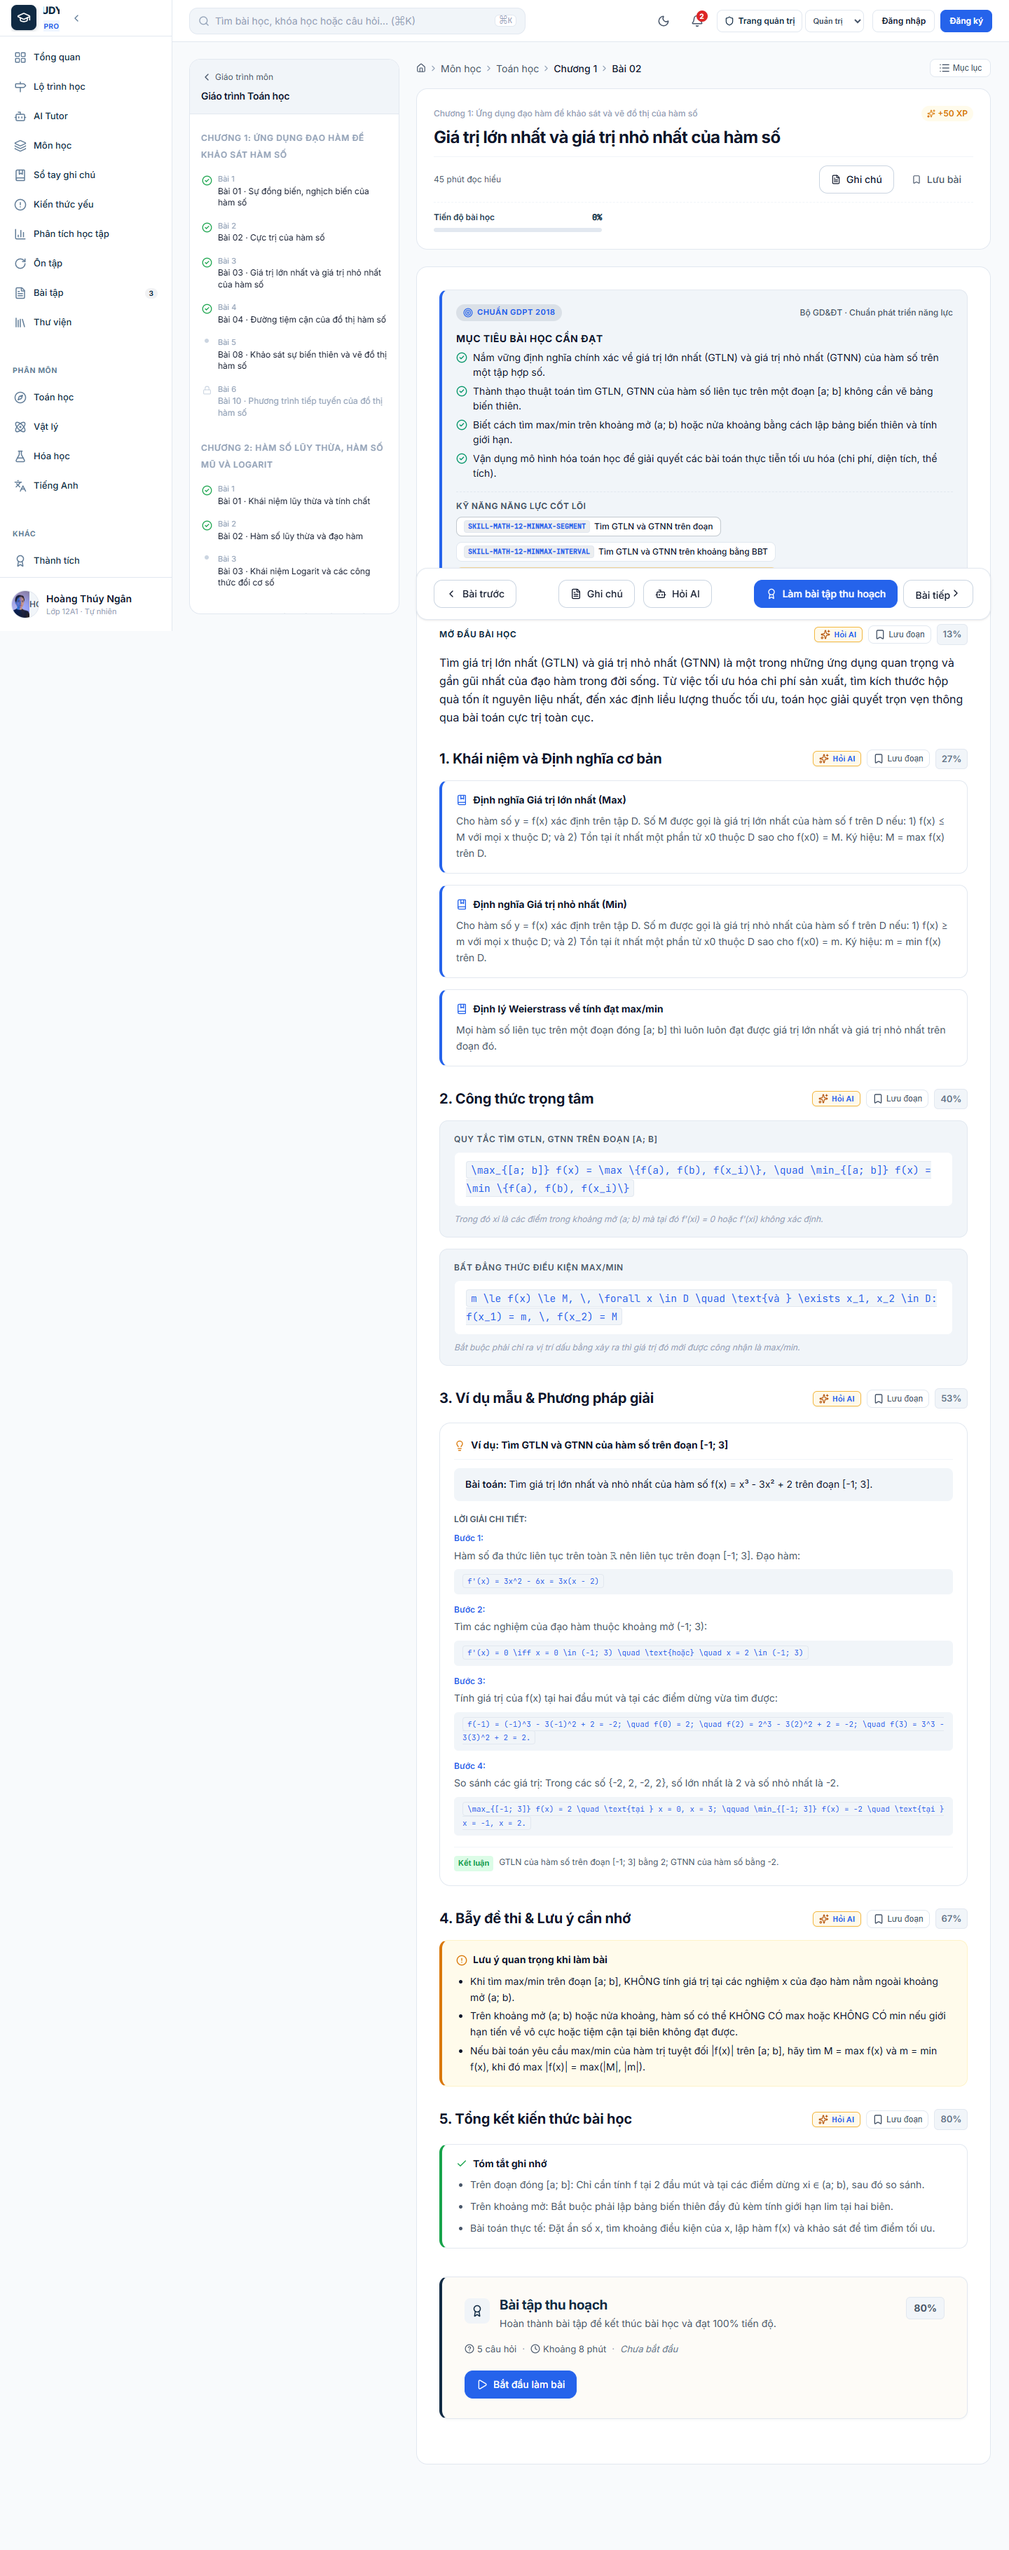
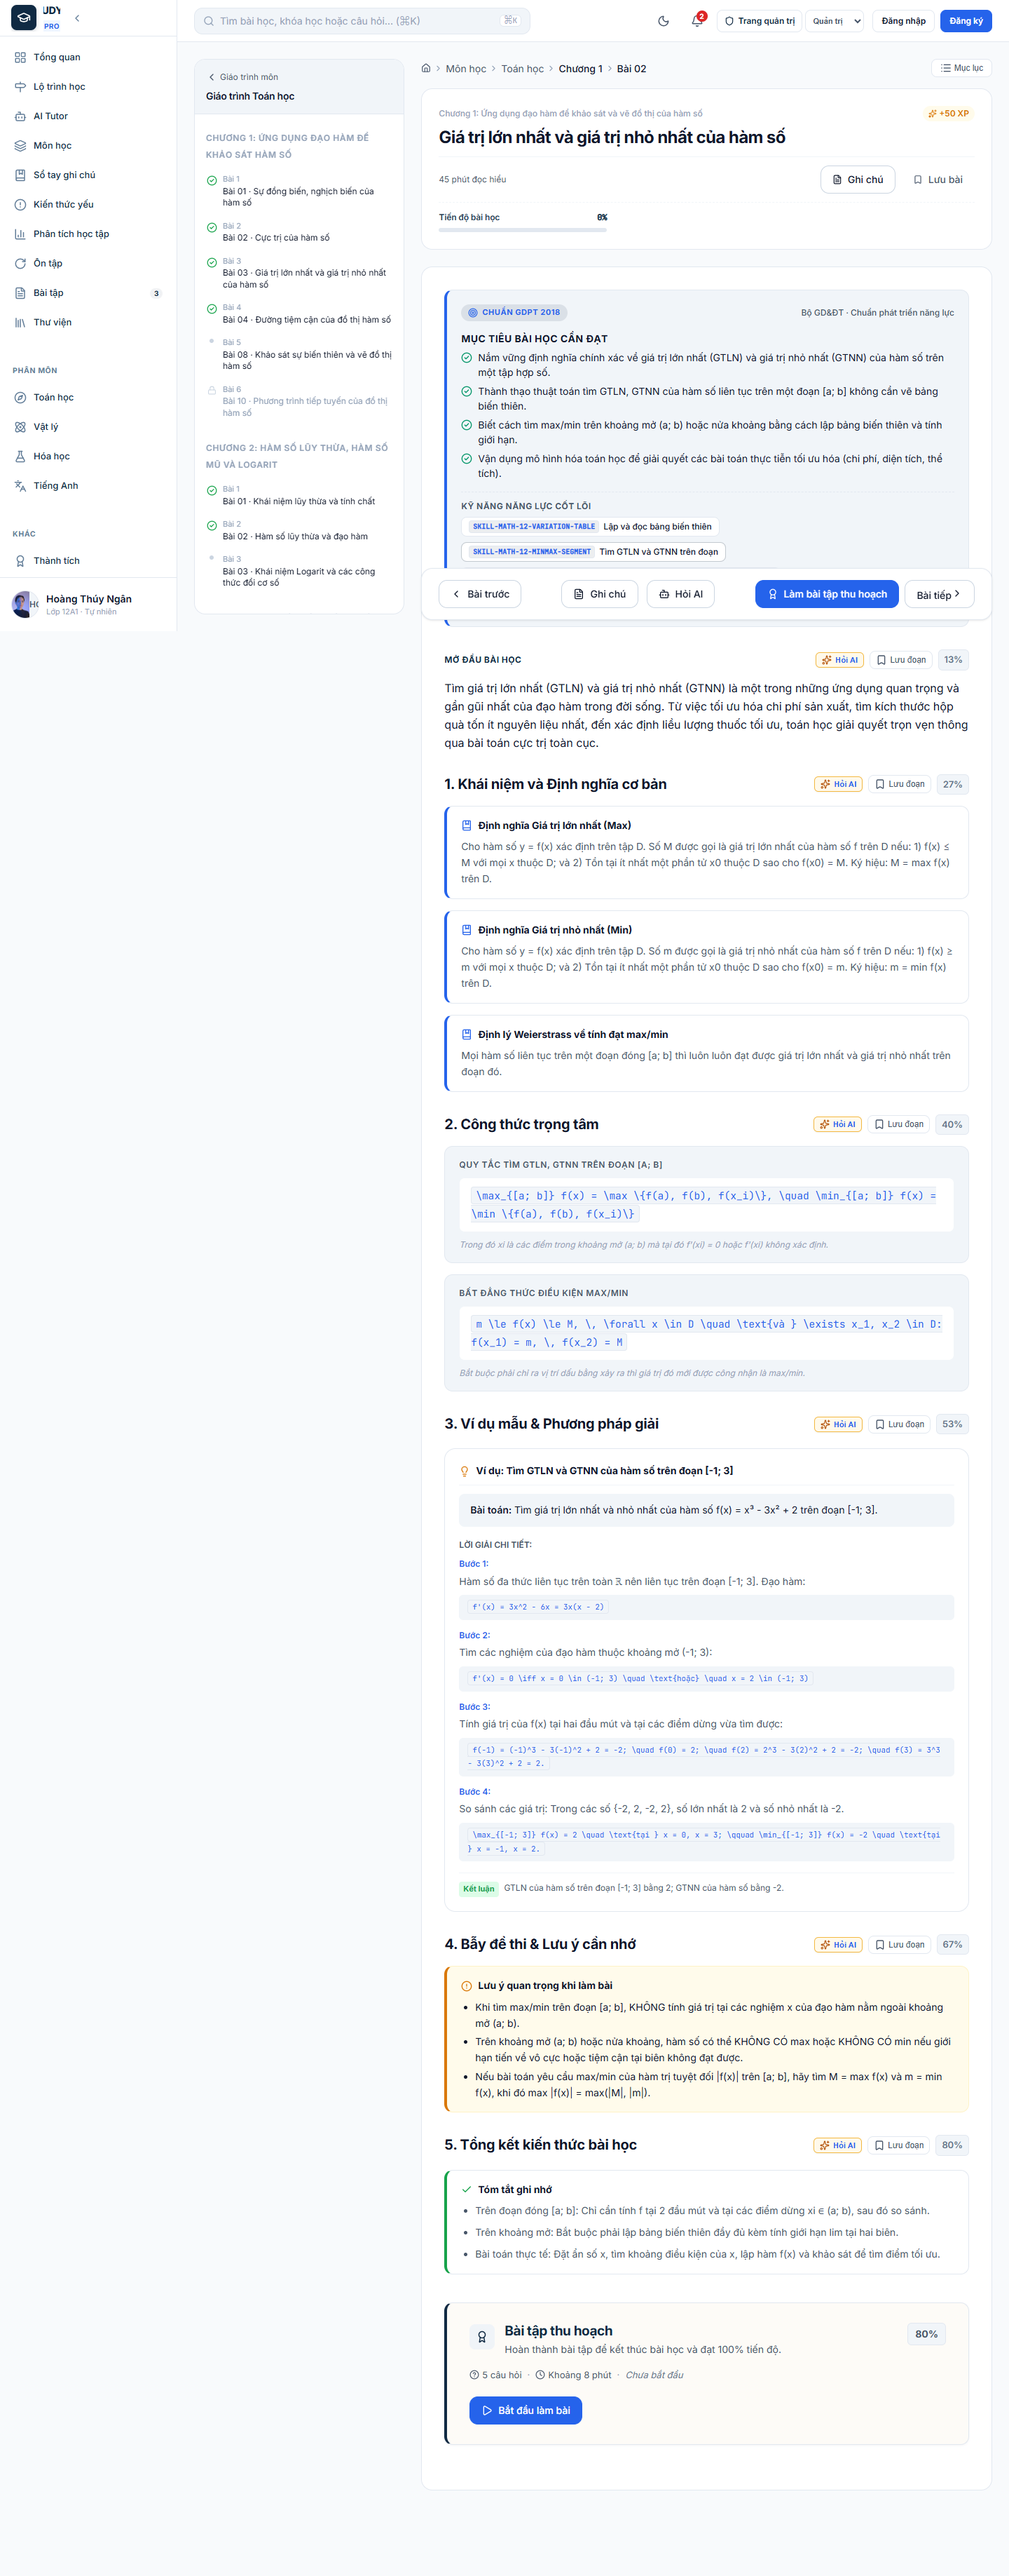
feat(curriculum): standardize GDPT 2018 6 chapters math 12 and skill clusters

diff --git a/frontend/src/data/curriculum.data.ts b/frontend/src/data/curriculum.data.ts
@@ -7,16 +7,53 @@
 import type { CurriculumSubject, Skill } from '@/types/curriculum'
 
 export const MASTER_SKILLS: Skill[] = [
-  // Math 12 - Chapter 1 Skills
+  // Math 12 - Chapter 1 Core Standardized Skill Clusters (GDPT 2018)
+  {
+    id: 'sk-math-12-deriv-sign',
+    code: 'SKILL-MATH-12-DERIV-SIGN',
+    name: 'Xét dấu đạo hàm',
+    subjectId: 'math',
+    grade: '12',
+    description: 'Tính đạo hàm và lập bảng xét dấu đạo hàm cấp một để xác định chiều biến thiên của hàm số.',
+    category: 'conceptual',
+  },
   {
     id: 'sk-math-12-mono',
     code: 'SKILL-MATH-12-MONOTONICITY',
-    name: 'Xét dấu đạo hàm xác định khoảng đơn điệu',
+    name: 'Xét tính đơn điệu',
     subjectId: 'math',
     grade: '12',
     description: 'Vận dụng định lý đạo hàm cấp một để kết luận khoảng đồng biến, nghịch biến của hàm số.',
     category: 'conceptual',
   },
+  {
+    id: 'sk-math-12-extr',
+    code: 'SKILL-MATH-12-EXTREMUM',
+    name: 'Xác định cực trị',
+    subjectId: 'math',
+    grade: '12',
+    description: 'Tìm điểm cực đại, cực tiểu và tính giá trị cực trị dựa vào quy tắc 1 hoặc quy tắc 2.',
+    category: 'procedural',
+  },
+  {
+    id: 'sk-math-12-var-table',
+    code: 'SKILL-MATH-12-VARIATION-TABLE',
+    name: 'Lập và đọc bảng biến thiên',
+    subjectId: 'math',
+    grade: '12',
+    description: 'Lập bảng biến thiên hoàn chỉnh (tập xác định, dấu đạo hàm, chiều mũi tên) và đọc thông tin cực trị, tiệm cận.',
+    category: 'procedural',
+  },
+  {
+    id: 'sk-math-12-graph-sketch',
+    code: 'SKILL-MATH-12-GRAPH-SKETCHING',
+    name: 'Khảo sát và vẽ đồ thị hàm số',
+    subjectId: 'math',
+    grade: '12',
+    description: 'Thực hiện quy trình 3 bước khảo sát sự biến thiên và vẽ đồ thị các hàm số đa thức và phân thức hữu tỉ.',
+    category: 'application',
+  },
+  // Detailed sub-skills
   {
     id: 'sk-math-12-extr-1',
     code: 'SKILL-MATH-12-EXTREMUM-1',
@@ -113,10 +150,12 @@ export const MASTER_CURRICULUM_SUBJECTS: CurriculumSubject[] = [
     description: 'Chương trình Giải tích và Hình học không gian chuẩn GDPT 2018, bám sát cấu trúc đề thi THPT Quốc gia.',
     availability: 'available',
     plannedTopics: [
-      'Ứng dụng đạo hàm để khảo sát và vẽ đồ thị của hàm số',
-      'Tọa độ vectơ trong không gian Oxyz',
-      'Các số đặc trưng đo mức độ phân tán của mẫu số liệu ghép nhóm',
-      'Nguyên hàm, tích phân và ứng dụng thực tiễn',
+      'Ứng dụng đạo hàm để khảo sát và vẽ đồ thị hàm số',
+      'Vectơ và hệ trục tọa độ trong không gian',
+      'Các số đặc trưng đo mức độ phân tán cho mẫu số liệu ghép nhóm',
+      'Nguyên hàm. Tích phân.',
+      'Phương pháp tọa độ trong không gian',
+      'Xác suất có điều kiện',
     ],
     metadata: {
       curriculumVersion: 'GDPT_2018',
@@ -167,10 +206,28 @@ export const MASTER_CURRICULUM_SUBJECTS: CurriculumSubject[] = [
                 ],
                 skills: [
                   {
+                    skillId: 'sk-math-12-deriv-sign',
+                    skillCode: 'SKILL-MATH-12-DERIV-SIGN',
+                    skillName: 'Xét dấu đạo hàm',
+                    level: 'core',
+                  },
+                  {
                     skillId: 'sk-math-12-mono',
                     skillCode: 'SKILL-MATH-12-MONOTONICITY',
-                    skillName: 'Xét dấu đạo hàm xác định khoảng đơn điệu',
+                    skillName: 'Xét tính đơn điệu',
                     level: 'core',
+                  },
+                  {
+                    skillId: 'sk-math-12-extr',
+                    skillCode: 'SKILL-MATH-12-EXTREMUM',
+                    skillName: 'Xác định cực trị',
+                    level: 'core',
+                  },
+                  {
+                    skillId: 'sk-math-12-var-table',
+                    skillCode: 'SKILL-MATH-12-VARIATION-TABLE',
+                    skillName: 'Lập và đọc bảng biến thiên',
+                    level: 'supporting',
                   },
                   {
                     skillId: 'sk-math-12-extr-1',
@@ -328,6 +385,12 @@ export const MASTER_CURRICULUM_SUBJECTS: CurriculumSubject[] = [
                 ],
                 skills: [
                   {
+                    skillId: 'sk-math-12-var-table',
+                    skillCode: 'SKILL-MATH-12-VARIATION-TABLE',
+                    skillName: 'Lập và đọc bảng biến thiên',
+                    level: 'supporting',
+                  },
+                  {
                     skillId: 'sk-math-12-minmax-seg',
                     skillCode: 'SKILL-MATH-12-MINMAX-SEGMENT',
                     skillName: 'Tìm GTLN và GTNN trên đoạn',
@@ -455,6 +518,18 @@ export const MASTER_CURRICULUM_SUBJECTS: CurriculumSubject[] = [
                   'Ứng dụng đồ thị đã vẽ để biện luận số nghiệm của phương trình f(x) = m và giải quyết bài toán tương giao đồ thị.',
                 ],
                 skills: [
+                  {
+                    skillId: 'sk-math-12-graph-sketch',
+                    skillCode: 'SKILL-MATH-12-GRAPH-SKETCHING',
+                    skillName: 'Khảo sát và vẽ đồ thị hàm số',
+                    level: 'core',
+                  },
+                  {
+                    skillId: 'sk-math-12-var-table',
+                    skillCode: 'SKILL-MATH-12-VARIATION-TABLE',
+                    skillName: 'Lập và đọc bảng biến thiên',
+                    level: 'core',
+                  },
                   {
                     skillId: 'sk-math-12-asym',
                     skillCode: 'SKILL-MATH-12-ASYMPTOTE',
@@ -584,8 +659,8 @@ export const MASTER_CURRICULUM_SUBJECTS: CurriculumSubject[] = [
             subjectId: 'math',
             grade: '12',
             chapterNumber: 2,
-            title: 'Chương 2: Tọa độ vectơ trong không gian Oxyz',
-            description: 'Tọa độ vectơ, tọa độ điểm, biểu thức tọa độ của các phép toán vectơ và tích có hướng.',
+            title: 'Chương 2: Vectơ và hệ trục tọa độ trong không gian',
+            description: 'Vectơ trong không gian, các phép toán vectơ, tọa độ vectơ và tọa độ điểm trong không gian Oxyz.',
             availability: 'preview',
             estimatedHours: 18,
             totalLessons: 4,
@@ -596,7 +671,7 @@ export const MASTER_CURRICULUM_SUBJECTS: CurriculumSubject[] = [
             subjectId: 'math',
             grade: '12',
             chapterNumber: 3,
-            title: 'Chương 3: Các số đặc trưng đo mức độ phân tán của mẫu số liệu ghép nhóm',
+            title: 'Chương 3: Các số đặc trưng đo mức độ phân tán cho mẫu số liệu ghép nhóm',
             description: 'Khoảng biến thiên, khoảng tứ phân vị, phương sai và độ lệch chuẩn của số liệu ghép nhóm.',
             availability: 'preview',
             estimatedHours: 12,
@@ -608,11 +683,35 @@ export const MASTER_CURRICULUM_SUBJECTS: CurriculumSubject[] = [
             subjectId: 'math',
             grade: '12',
             chapterNumber: 4,
-            title: 'Chương 4: Nguyên hàm, tích phân và ứng dụng hình học',
-            description: 'Bảng nguyên hàm cơ bản, phương pháp tích phân đổi biến, từng phần và tính diện tích hình phẳng.',
+            title: 'Chương 4: Nguyên hàm. Tích phân.',
+            description: 'Khái niệm nguyên hàm, các phương pháp tính nguyên hàm, tích phân và ứng dụng hình học tính diện tích, thể tích.',
             availability: 'preview',
             estimatedHours: 22,
             totalLessons: 5,
+            lessons: [],
+          },
+          {
+            id: 'math-chap-5',
+            subjectId: 'math',
+            grade: '12',
+            chapterNumber: 5,
+            title: 'Chương 5: Phương pháp tọa độ trong không gian',
+            description: 'Phương trình mặt phẳng, phương trình đường thẳng và phương trình mặt cầu trong không gian Oxyz.',
+            availability: 'preview',
+            estimatedHours: 20,
+            totalLessons: 4,
+            lessons: [],
+          },
+          {
+            id: 'math-chap-6',
+            subjectId: 'math',
+            grade: '12',
+            chapterNumber: 6,
+            title: 'Chương 6: Xác suất có điều kiện',
+            description: 'Xác suất có điều kiện, công thức xác suất toàn phần và công thức Bayes trong giải quyết bài toán thực tế.',
+            availability: 'preview',
+            estimatedHours: 14,
+            totalLessons: 3,
             lessons: [],
           },
         ],

diff --git a/frontend/src/repositories/curriculum.repository.test.ts b/frontend/src/repositories/curriculum.repository.test.ts
@@ -38,18 +38,72 @@ describe('CurriculumRepository (GDPT 2018 Foundation)', () => {
     expect(resultKeyword.some((s) => s.id === 'math')).toBe(true)
   })
 
-  it('retrieves Math 12 Chapter 1 with 3 lessons', async () => {
+  it('retrieves Math 12 Chapter 1 with 3 lessons and full 6 GDPT 2018 chapters', async () => {
     const math = await curriculumRepository.getSubjectById('math')
     expect(math).not.toBeNull()
     expect(math?.metadata.curriculumVersion).toBe('GDPT_2018')
 
     const grade12 = math?.grades.find((g) => g.grade === '12')
     expect(grade12).toBeDefined()
-    expect(grade12?.chapters.length).toBeGreaterThanOrEqual(1)
+    expect(grade12?.chapters).toHaveLength(6)
+
+    // Verify 6 chapters according to "Ket noi tri thuc voi cuoc song"
+    const chapterTitles = grade12!.chapters.map((c) => c.title)
+    expect(chapterTitles[0]).toContain('Ứng dụng đạo hàm')
+    expect(chapterTitles[1]).toContain('Vectơ và hệ trục tọa độ trong không gian')
+    expect(chapterTitles[2]).toContain('Các số đặc trưng đo mức độ phân tán')
+    expect(chapterTitles[3]).toContain('Nguyên hàm. Tích phân')
+    expect(chapterTitles[4]).toContain('Phương pháp tọa độ trong không gian')
+    expect(chapterTitles[5]).toContain('Xác suất có điều kiện')
 
     const chapter1 = grade12?.chapters[0]
     expect(chapter1?.id).toBe('math-chap-1')
     expect(chapter1?.lessons).toHaveLength(3)
+  })
+
+  it('navigates Subject -> Chapter -> Lesson -> Skill hierarchy cleanly', async () => {
+    const chapters = await curriculumRepository.getChaptersBySubjectId('math', '12')
+    expect(chapters).toHaveLength(6)
+
+    const lesson = await curriculumRepository.getLessonById('lesson-math-12-01')
+    expect(lesson).not.toBeNull()
+
+    const skills = await curriculumRepository.getSkillsByLessonId('lesson-math-12-01')
+    expect(skills.length).toBeGreaterThanOrEqual(4)
+    const skillCodes = skills.map((s) => s.code)
+    expect(skillCodes).toContain('SKILL-MATH-12-DERIV-SIGN')
+    expect(skillCodes).toContain('SKILL-MATH-12-MONOTONICITY')
+    expect(skillCodes).toContain('SKILL-MATH-12-EXTREMUM')
+    expect(skillCodes).toContain('SKILL-MATH-12-VARIATION-TABLE')
+  })
+
+  it('supports the 5 standardized core skill clusters for derivative applications', async () => {
+    const derivSign = await curriculumRepository.getSkillByCode('SKILL-MATH-12-DERIV-SIGN')
+    expect(derivSign).not.toBeNull()
+    expect(derivSign?.name).toBe('Xét dấu đạo hàm')
+
+    const mono = await curriculumRepository.getSkillByCode('SKILL-MATH-12-MONOTONICITY')
+    expect(mono).not.toBeNull()
+
+    const extremum = await curriculumRepository.getSkillByCode('SKILL-MATH-12-EXTREMUM')
+    expect(extremum).not.toBeNull()
+    expect(extremum?.name).toBe('Xác định cực trị')
+
+    const varTable = await curriculumRepository.getSkillByCode('SKILL-MATH-12-VARIATION-TABLE')
+    expect(varTable).not.toBeNull()
+    expect(varTable?.name).toBe('Lập và đọc bảng biến thiên')
+
+    const graphSketch = await curriculumRepository.getSkillByCode('SKILL-MATH-12-GRAPH-SKETCHING')
+    expect(graphSketch).not.toBeNull()
+    expect(graphSketch?.name).toBe('Khảo sát và vẽ đồ thị hàm số')
+  })
+
+  it('finds geography with both spelling variations "Địa lý" and "Địa lí"', async () => {
+    const resultLy = await curriculumRepository.getSubjects({ searchQuery: 'Địa lý' })
+    expect(resultLy.some((s) => s.id === 'geography')).toBe(true)
+
+    const resultLi = await curriculumRepository.getSubjects({ searchQuery: 'Địa lí' })
+    expect(resultLi.some((s) => s.id === 'geography')).toBe(true)
   })
 
   it('retrieves Math 12 lessons with full pedagogy: objectives, skills, formulas, examples', async () => {
@@ -86,7 +140,7 @@ describe('CurriculumRepository (GDPT 2018 Foundation)', () => {
 
     const monoSkill = await curriculumRepository.getSkillByCode('SKILL-MATH-12-MONOTONICITY')
     expect(monoSkill).not.toBeNull()
-    expect(monoSkill?.name).toBe('Xét dấu đạo hàm xác định khoảng đơn điệu')
+    expect(monoSkill?.name).toBe('Xét tính đơn điệu')
   })
 
   it('returns null for non-existent subject, chapter, or lesson', async () => {

diff --git a/frontend/src/repositories/curriculum.repository.ts b/frontend/src/repositories/curriculum.repository.ts
@@ -24,9 +24,11 @@ export interface ICurriculumRepository {
   getAllSubjects(): Promise<CurriculumSubject[]>
   getSubjects(filters?: CurriculumFilterOptions): Promise<CurriculumSubject[]>
   getSubjectById(id: string): Promise<CurriculumSubject | null>
+  getChaptersBySubjectId(subjectId: string, grade?: GradeLevel): Promise<CurriculumChapter[]>
   getChapterById(chapterId: string): Promise<CurriculumChapter | null>
   getLessonById(lessonId: string): Promise<CurriculumLesson | null>
   getSkills(subjectId?: string, grade?: GradeLevel): Promise<Skill[]>
+  getSkillsByLessonId(lessonId: string): Promise<Skill[]>
   getSkillByCode(code: string): Promise<Skill | null>
 }
 
@@ -66,9 +68,12 @@ export class MockCurriculumAdapter implements ICurriculumRepository {
 
     if (filters?.searchQuery && filters.searchQuery.trim() !== '') {
       const q = filters.searchQuery.toLowerCase().trim()
+      // Normalize 'địa lý' and 'địa lí' to match either
+      const qNorm = q.replace(/địa lý/g, 'địa lí')
       result = result.filter(
         (s) =>
           s.name.toLowerCase().includes(q) ||
+          s.name.toLowerCase().replace(/địa lý/g, 'địa lí').includes(qNorm) ||
           s.shortName.toLowerCase().includes(q) ||
           s.description.toLowerCase().includes(q) ||
           (s.plannedTopics && s.plannedTopics.some((t) => t.toLowerCase().includes(q))) ||
@@ -89,6 +94,16 @@ export class MockCurriculumAdapter implements ICurriculumRepository {
     const normalized = id.toLowerCase().trim()
     const found = this.subjects.find((s) => s.id.toLowerCase() === normalized)
     return found ? { ...found } : null
+  }
+
+  async getChaptersBySubjectId(subjectId: string, grade?: GradeLevel): Promise<CurriculumChapter[]> {
+    const subject = await this.getSubjectById(subjectId)
+    if (!subject) return []
+    if (grade) {
+      const gradeObj = subject.grades.find((g) => g.grade === grade)
+      return gradeObj ? [...gradeObj.chapters] : []
+    }
+    return subject.grades.flatMap((g) => g.chapters)
   }
 
   async getChapterById(chapterId: string): Promise<CurriculumChapter | null> {
@@ -123,6 +138,13 @@ export class MockCurriculumAdapter implements ICurriculumRepository {
       result = result.filter((sk) => sk.grade === grade)
     }
     return result
+  }
+
+  async getSkillsByLessonId(lessonId: string): Promise<Skill[]> {
+    const lesson = await this.getLessonById(lessonId)
+    if (!lesson || !lesson.skills || lesson.skills.length === 0) return []
+    const codes = new Set(lesson.skills.map((s) => s.skillCode.toUpperCase()))
+    return this.skills.filter((sk) => codes.has(sk.code.toUpperCase()))
   }
 
   async getSkillByCode(code: string): Promise<Skill | null> {

diff --git a/frontend/vitest.config.ts b/frontend/vitest.config.ts
@@ -9,6 +9,7 @@ export default defineConfig({
     globals: true,
     setupFiles: ['./src/test/setup.ts'],
     pool: 'forks',
+    testTimeout: 15000,
   },
   resolve: {
     alias: {
